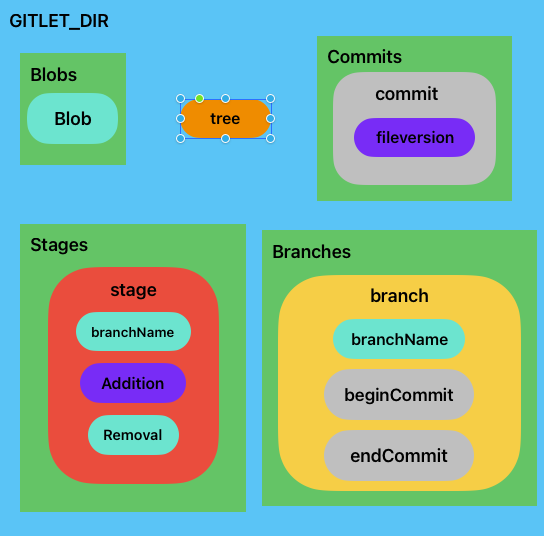
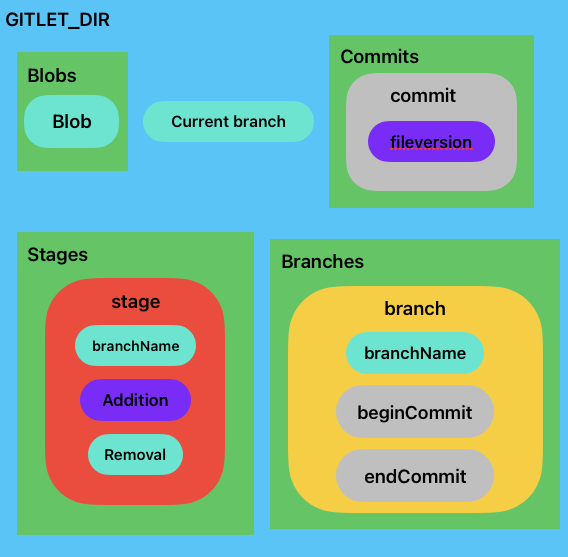
Site updated: 2023-08-19 09:10:00

diff --git a/2023/08/03/CS61b-project2-main-structure-of-my-gitlet/index.html b/2023/08/03/CS61b-project2-main-structure-of-my-gitlet/index.html
@@ -29,7 +29,7 @@
 <meta property="og:locale" content="en_US">
 <meta property="og:image" content="https://yty-yang.github.io/image/gitlet_structure.png">
 <meta property="article:published_time" content="2023-08-03T15:16:04.000Z">
-<meta property="article:modified_time" content="2023-08-04T09:06:39.931Z">
+<meta property="article:modified_time" content="2023-08-08T08:24:30.620Z">
 <meta property="article:author" content="wow">
 <meta property="article:tag" content="cs61b">
 <meta name="twitter:card" content="summary">
@@ -225,7 +225,7 @@
                   <i class="far fa-calendar-check"></i>
                 </span>
                 <span class="post-meta-item-text">Edited on</span>
-                <time title="Modified: 2023-08-04 17:06:39" itemprop="dateModified" datetime="2023-08-04T17:06:39+08:00">2023-08-04</time>
+                <time title="Modified: 2023-08-08 16:24:30" itemprop="dateModified" datetime="2023-08-08T16:24:30+08:00">2023-08-08</time>
               </span>
             <span class="post-meta-item">
               <span class="post-meta-item-icon">
@@ -259,7 +259,6 @@
 <li>create <em>Commits</em><br>new a commit(auto commit, no parent, empty fileversion)<br>new a tree, add the commit to it, save</li>
 <li>create <em>Branches</em><br>new a branch(named ‘master’), set auto commit as beginCommit and endCommit, save</li>
 <li>create <em>Stages</em><br>new a stage, set branchName as ‘master’</li>
-<li>create the <em>tree</em>(file)</li>
 </ol>
 <p><strong>add</strong></p>
 <ol>
@@ -270,7 +269,6 @@
 <li>create a commit, set ‘fileversion’ as its parent commit’s ‘fileversion’</li>
 <li>if a file is in ‘Addition’, overwirte the file in ‘fileversion’ by the version of that in ‘Addition’, clear ‘Addition’</li>
 <li>if a file is in ‘Removal’, remove the file from stage, clear ‘Removal’</li>
-<li>add the commit to tree</li>
 <li>renew the endCommmit of the branch</li>
 </ol>
 <p><strong>rm</strong></p>

diff --git a/index.html b/index.html
@@ -218,7 +218,7 @@
                   <i class="far fa-calendar-check"></i>
                 </span>
                 <span class="post-meta-item-text">Edited on</span>
-                <time title="Modified: 2023-08-04 17:06:39" itemprop="dateModified" datetime="2023-08-04T17:06:39+08:00">2023-08-04</time>
+                <time title="Modified: 2023-08-08 16:24:30" itemprop="dateModified" datetime="2023-08-08T16:24:30+08:00">2023-08-08</time>
               </span>
             <span class="post-meta-item">
               <span class="post-meta-item-icon">
@@ -252,7 +252,6 @@
 <li>create <em>Commits</em><br>new a commit(auto commit, no parent, empty fileversion)<br>new a tree, add the commit to it, save</li>
 <li>create <em>Branches</em><br>new a branch(named ‘master’), set auto commit as beginCommit and endCommit, save</li>
 <li>create <em>Stages</em><br>new a stage, set branchName as ‘master’</li>
-<li>create the <em>tree</em>(file)</li>
 </ol>
 <p><strong>add</strong></p>
 <ol>
@@ -263,7 +262,6 @@
 <li>create a commit, set ‘fileversion’ as its parent commit’s ‘fileversion’</li>
 <li>if a file is in ‘Addition’, overwirte the file in ‘fileversion’ by the version of that in ‘Addition’, clear ‘Addition’</li>
 <li>if a file is in ‘Removal’, remove the file from stage, clear ‘Removal’</li>
-<li>add the commit to tree</li>
 <li>renew the endCommmit of the branch</li>
 </ol>
 <p><strong>rm</strong></p>
